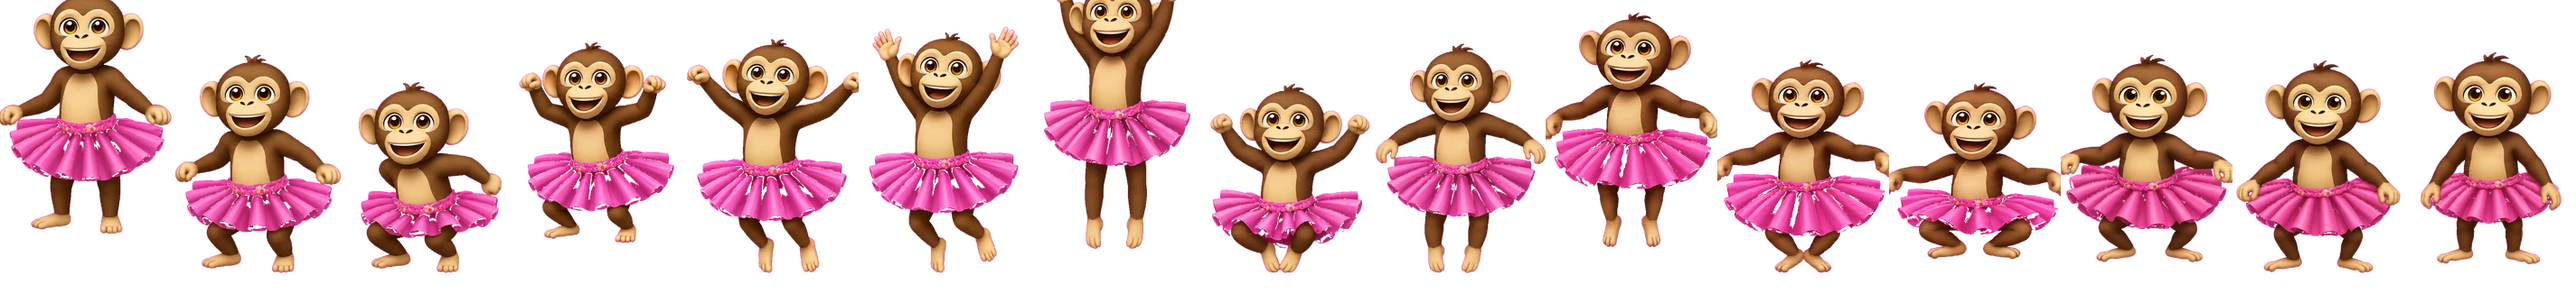
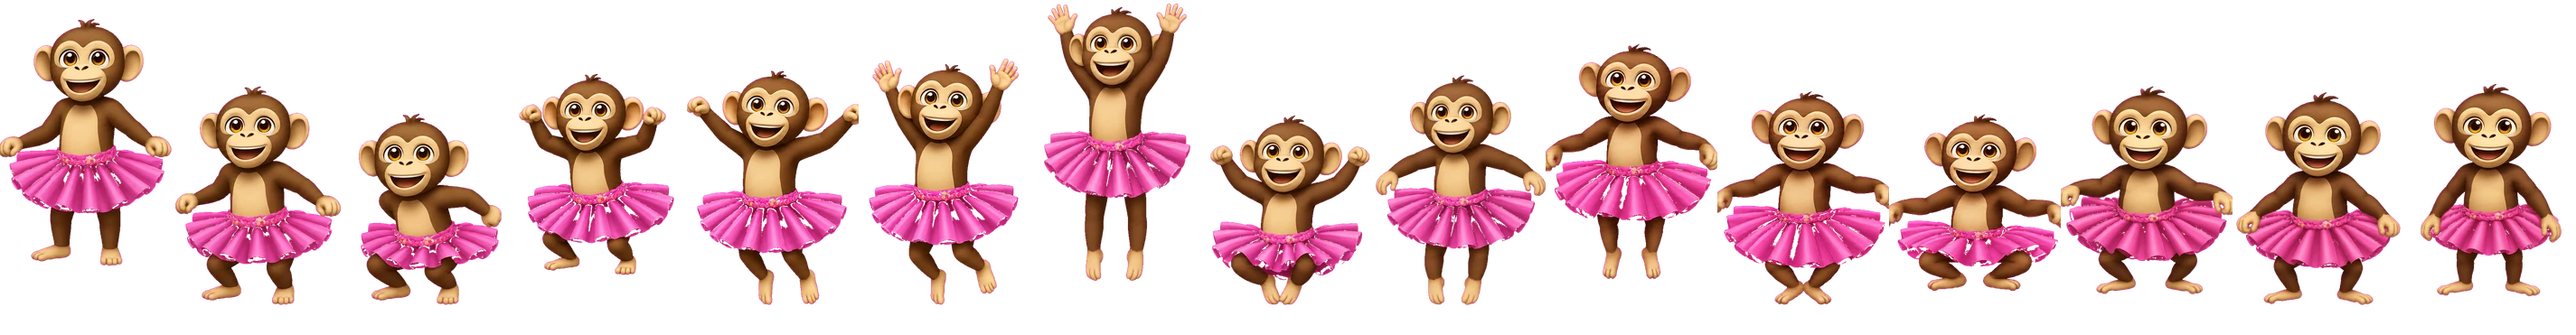
Slow the filter jump & money loops, and fix clipped raised arms on the jump frames
- Regenerated the jump sprite with more headroom so the launch/apex frames no
  longer clip the monkey's raised hands at the top.
- Slowed the filter-bar hop (0.52s -> 0.68s, synced transition + timeout) and the
  'making it rain' loop (2s -> 2.5s).

Claude-Session: https://claude.ai/code/session_01EUjV5ohord2k6462M2x6JH

diff --git a/src/styles/global.css b/src/styles/global.css
@@ -420,7 +420,7 @@ a.chip:hover { border-color: var(--accent); color: var(--text); }
   display: flex;
   flex-wrap: wrap;
   gap: 0.5rem;
-  padding-top: 7.5rem;
+  padding-top: 8rem;
   margin-bottom: 3rem;
 }
 .filter {
@@ -1694,7 +1694,7 @@ a.chip:hover { border-color: var(--accent); color: var(--text); }
   aspect-ratio: 250 / 303;
   background-image: url('/brand/anim/monkey-rain.webp');
   background-size: calc(var(--fw) * 15) 100%;
-  animation: sprite-rain 2s steps(15) infinite;
+  animation: sprite-rain 2.5s steps(15) infinite;
 }
 @keyframes sprite-rain { to { background-position-x: calc(var(--fw) * -15); } }
 
@@ -1712,15 +1712,15 @@ a.chip:hover { border-color: var(--accent); color: var(--text); }
   pointer-events: none;
   z-index: 3;
   transition:
-    left 0.5s cubic-bezier(0.34, 1.3, 0.5, 1),
-    top 0.5s cubic-bezier(0.34, 1.3, 0.5, 1);
+    left 0.68s cubic-bezier(0.34, 1.3, 0.5, 1),
+    top 0.68s cubic-bezier(0.34, 1.3, 0.5, 1);
   will-change: left, top;
 }
 .filter-monkey__art {
   --fw: 63px;
   display: block;
   width: var(--fw);
-  aspect-ratio: 190 / 336;
+  aspect-ratio: 190 / 371;
   background-image: url('/brand/anim/monkey-jump.webp');
   background-repeat: no-repeat;
   background-size: calc(var(--fw) * 15) 100%;
@@ -1728,10 +1728,10 @@ a.chip:hover { border-color: var(--accent); color: var(--text); }
   filter: drop-shadow(0 4px 6px rgba(0, 0, 0, 0.35));
 }
 .filter-monkey.is-hopping {
-  animation: filter-hop-arc 0.52s ease;
+  animation: filter-hop-arc 0.68s ease;
 }
 .filter-monkey.is-hopping .filter-monkey__art {
-  animation: sprite-jump-once 0.52s steps(15) 1;
+  animation: sprite-jump-once 0.68s steps(15) 1;
 }
 @keyframes filter-hop-arc {
   0%,

diff --git a/src/scripts/filters.ts b/src/scripts/filters.ts
@@ -18,7 +18,7 @@ function perch(monkey: HTMLElement, btn: HTMLElement, hop: boolean): void {
     monkey.classList.remove('is-hopping');
     void monkey.offsetWidth; // reflow so the animation restarts every hop
     monkey.classList.add('is-hopping');
-    window.setTimeout(() => monkey.classList.remove('is-hopping'), 520);
+    window.setTimeout(() => monkey.classList.remove('is-hopping'), 700);
   }
 }
 
